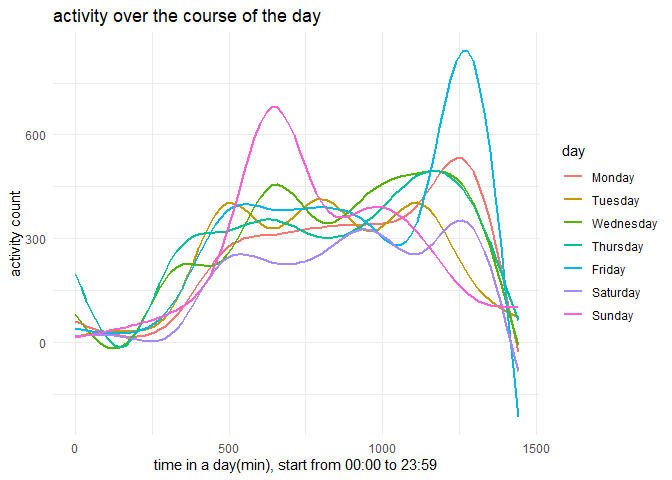
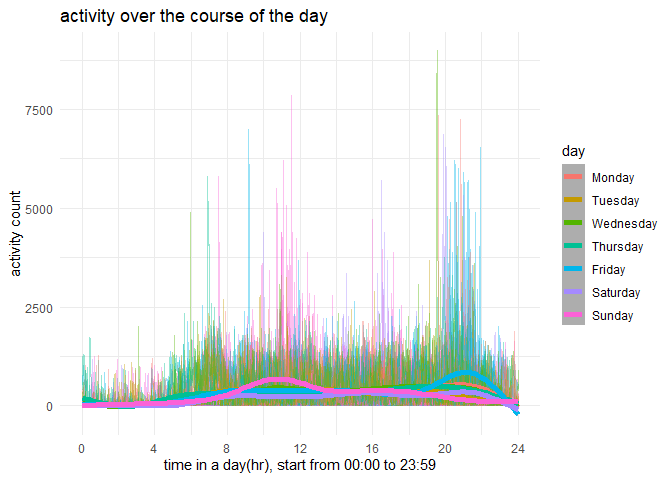
update the Rmd: add more annotations update the last plot in problem 3: change the time scale to a more reading-friendly one reknit the Rmd

diff --git a/p8105_hw3_lg3158.md b/p8105_hw3_lg3158.md
@@ -59,6 +59,16 @@ Data summary
 | aisle\_id                 |          0 |              1 |      71.30 |     38.10 |   1 |     31 |      83 |     107 |     134 | ▆▃▃▇▆ |
 | department\_id            |          0 |              1 |       9.84 |      6.29 |   1 |      4 |       8 |      16 |      21 | ▇▂▂▅▂ |
 
+-   How many aisles are there, and which aisles are the most items
+    ordered from?
+    -   Make a summary table that:
+        -   include 3 variables: aisle, items\_sold (the total count of
+            the items in the aisle), sell\_rank (from the most to the
+            least sell)
+        -   the table is arranged by the sell rank in a descending order
+            (from the 1st to the last)
+        -   present the top 5 most ordered aisles in the table
+
 ``` r
 instacart_summary = instacart %>%
   group_by(aisle) %>%
@@ -87,6 +97,7 @@ the top 5 most ordered aisles
 -   Make a plot that shows the number of items ordered in each aisle,
     limiting this to aisles with more than 10000 items ordered. Arrange
     aisles sensibly.
+    -   using the summary table above
 
 ``` r
 instacart_summary %>%
@@ -105,6 +116,14 @@ instacart_summary %>%
     aisles “baking ingredients”, “dog food care”, and “packaged
     vegetables fruits”. Include the number of times each item is ordered
     in the table.
+    -   The data should:
+        -   restrict aisles that sells baking ingredients, dog food care
+            or packaged vegetables fruits
+        -   keep 2 variables: product\_name and aisle
+        -   create new variable called items\_sold to summarize the
+            total count of the items
+        -   create a new variable called sell\_rank to show the most
+            sold items in each aisle, in a descending order
 
 ``` r
 instacart_3pops = instacart %>%
@@ -137,6 +156,14 @@ kable(instacart_3pops)
 
 -   Make a table showing the mean hour of the day at which Pink Lady
     Apples and Coffee Ice Cream are ordered on each day of the week.
+    -   the table should:
+        -   restrict product\_name to pink lady apples and coffee ice
+            cream
+        -   keep product name, the day of the order, and the time of the
+            order
+        -   calculate the mean order time by day and product
+        -   apply weekday format to the day of the order, from 0-6 are
+            Sunday to Saturday
 
 ``` r
 instacart_week = instacart %>%
@@ -168,6 +195,10 @@ kable(instacart_week)
 # problem 2
 
 -   data importing and data cleaning
+    -   change locationabbr into state abbreviation
+    -   change locationdesc into county
+    -   keep the results of overall health topic
+    -   order the response from poor to excellent
 
 ``` r
 data("brfss_smart2010") 
@@ -319,7 +350,7 @@ brfss_excellent %>%
 -   Make a two-panel plot showing, for the years 2006, and 2010,
     distribution of data\_value for responses (“Poor” to “Excellent”)
     among locations in NY State.
-    -   first data wrangling:
+    -   the data for this plot should:
         -   the data are restricted state as “NY”, and restricted year
             to 2006 and 2010.
         -   the data set contains 3 variables: year, responses (factor
@@ -349,6 +380,8 @@ brfss_violin
     -   create new variable `weekday` with 2 levels: “weekday” and
         “weekend”, to show weekday vs. weekend
     -   arranged by `day_id` and `time_min`
+    -   transform `time_min` to `time_hr` to approximate the real clock
+        time
 
 ``` r
 acce = read_csv("./data/accel_data.csv",
@@ -359,7 +392,8 @@ acce = read_csv("./data/accel_data.csv",
                values_to = "activity_count") %>%
   mutate(weekday = if_else(day == "Saturday" | day == "Sunday", "weekend", "weekday"),
          day = factor(day, levels = c("Monday","Tuesday","Wednesday","Thursday","Friday","Saturday","Sunday")),
-         time_min = as.numeric(time_min)) %>%
+         time_min = as.numeric(time_min),
+         time_hr = time_min/60) %>%
   arrange(day_id, time_min)
 ```
 
@@ -374,10 +408,10 @@ acce = read_csv("./data/accel_data.csv",
     ## i Use `spec()` to retrieve the full column specification for this data.
     ## i Specify the column types or set `show_col_types = FALSE` to quiet this message.
 
-Now there are 6 variables and 50400 observations in dataset `acce`. The
+Now there are 7 variables and 50400 observations in dataset `acce`. The
 6 variables are: week, day\_id, day, time\_min, activity\_count,
-weekday. The activity counts ranged from 1 to 8982 in the 5-week
-observation.
+weekday, time\_hr. The activity counts ranged from 1 to 8982 in the
+5-week observation.
 
 -   make a summary table for total activity variable for each day. The
     table should be:
@@ -417,15 +451,20 @@ kable(acce_totalac)
     each day and use color to indicate day of the week.
     -   the data should be modified as:
         -   including day, time\_min, activity\_count
+    -   the line plot is hard to distinguish the pattern, so add a
+        `geom_smooth()` to show the pattern
 
 ``` r
 acce_daychange = acce %>%
-  select(day_id, day, time_min, activity_count) %>%
-  ggplot(aes(x = time_min, y = activity_count, color = day)) +
-    geom_smooth(alpha = 0.4, se = F, size = 1) +
+  select(day_id, day, time_hr, activity_count) %>%
+  group_by(day, day_id) %>%
+  ggplot(aes(x = time_hr, y = activity_count, color = day)) +
+    geom_line(aes(group = day_id),alpha = 0.4, size = 0.5) +
+    geom_smooth(alpha = 0.8, size = 2) +
+    scale_x_continuous(limits = c(0,24), breaks = c(0,4,8,12,16,20,24)) +
     scale_fill_viridis_c() +
     labs(title = "activity over the course of the day",
-         x = "time in a day(min), start from 00:00 to 23:59",
+         x = "time in a day(hr), start from 00:00 to 23:59",
          y = "activity count") +
     theme_minimal()
 acce_daychange
@@ -436,10 +475,8 @@ acce_daychange
 <img src="p8105_hw3_lg3158_files/figure-gfm/unnamed-chunk-13-1.png" width="90%" />
 
 -   From the plot, the patterns are:
-    -   The patient’s activity is the lowest from 11 pm (time\_min
-        around 1400 min) to 3 am (time\_min around 180 min) for all the
-        weekdays.
-    -   On Monday, the patient is most active during around 10-11 am
-        (time\_min around 600-700 min).
+    -   The patient’s activity is the lowest from 11 pm to 3 am for all
+        the weekdays.
+    -   On Monday, the patient is most active during around 10-11 am.
     -   The patient is most active on Friday night.
     -   Generally, the patient is least active on Saturday.
